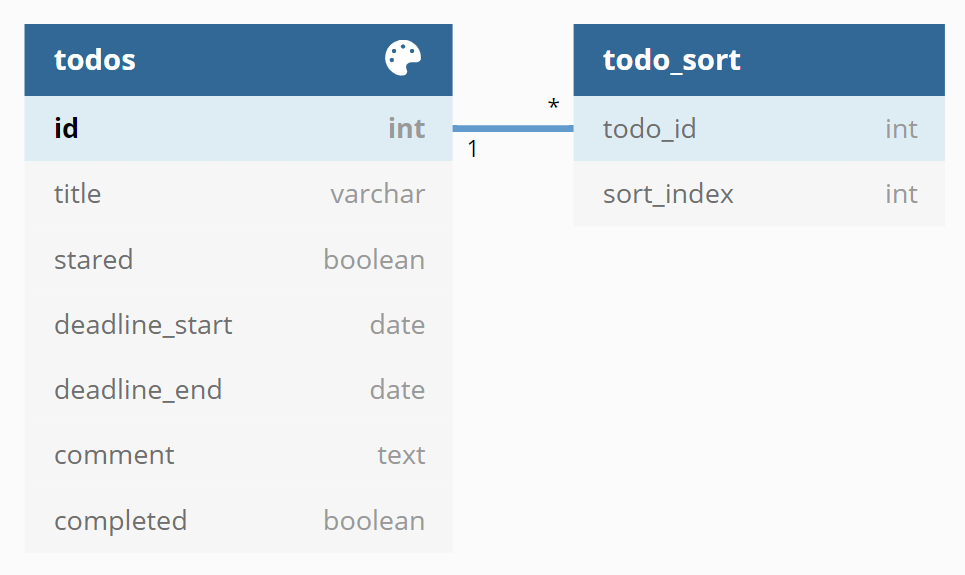
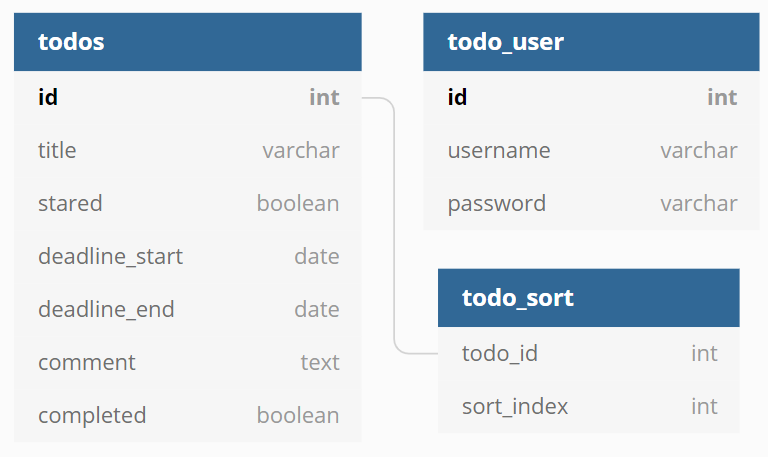
Add JWT authentication

diff --git a/middleware/JWT.go b/middleware/JWT.go
@@ -1,0 +1,34 @@
+package middleware
+
+import (
+	"time"
+
+	jwt "github.com/appleboy/gin-jwt/v2"
+	"github.com/gin-gonic/gin"
+	"github.com/zondaTW/go-todolist-server/lib"
+)
+
+func GetJWTMiddleware(key string, gwtAuthFunc lib.AuthFunc) *jwt.GinJWTMiddleware {
+	authMiddleware, err := jwt.New(
+		&jwt.GinJWTMiddleware{
+			Realm:         "Login Required",
+			Key:           []byte(key),
+			Timeout:       time.Hour * 12,
+			MaxRefresh:    time.Hour * 24,
+			Authenticator: gwtAuthFunc,
+			Unauthorized:  jwtUnAuthFunc,
+		})
+
+	if err != nil {
+		panic(err)
+	}
+
+	return authMiddleware
+}
+
+func jwtUnAuthFunc(c *gin.Context, code int, message string) {
+	c.JSON(code, gin.H{
+		"code":    code,
+		"message": message,
+	})
+}

diff --git a/user/service.go b/user/service.go
@@ -1,0 +1,30 @@
+package user
+
+import (
+	"database/sql"
+
+	jwt "github.com/appleboy/gin-jwt"
+	"github.com/gin-gonic/gin"
+
+	"github.com/zondaTW/go-todolist-server/lib"
+)
+
+type Login struct {
+	Username string `form:"username" json:"username" binding:"required"`
+	Password string `form:"password" json:"password" binding:"required"`
+}
+
+func GetJWTAuthFunc(db *sql.DB) lib.AuthFunc {
+	return func(c *gin.Context) (interface{}, error) {
+		var login Login
+		if err := c.ShouldBind(&login); err != nil {
+			return "", jwt.ErrMissingLoginValues
+		}
+
+		if _, err := getUser(db, login.Username, login.Password); err == nil {
+			return nil, nil
+		}
+
+		return nil, jwt.ErrFailedAuthentication
+	}
+}

diff --git a/user/model.go b/user/model.go
@@ -1,0 +1,27 @@
+package user
+
+import "database/sql"
+
+type User struct {
+	ID       int    `json:"id" form:"id"`
+	Username string `json:"username" form:"username"`
+	Password string `json:"password" form:"password"`
+}
+
+func getUser(db *sql.DB, username string, password string) (User, error) {
+	var user User
+	sqlStatement := `SELECT id, username, password from todo_user WHERE username = $1 AND password = $2`
+	err := db.QueryRow(
+		sqlStatement, username, password,
+	).Scan(
+		&user.ID, &user.Username, &user.Password,
+	)
+	if err != nil {
+		return User{
+			ID:       0,
+			Username: "",
+			Password: "",
+		}, err
+	}
+	return user, nil
+}

diff --git a/route.go b/route.go
@@ -3,10 +3,20 @@ package main
 import (
 	"github.com/zondaTW/go-todolist-server/middleware"
 	"github.com/zondaTW/go-todolist-server/todos"
+	"github.com/zondaTW/go-todolist-server/user"
 )
 
-func initRoute() {
+func initRoute(authKey string) {
 	router.Use(middleware.CORSMiddleware)
+
+	jwtMiddleware := middleware.GetJWTMiddleware(authKey, user.GetJWTAuthFunc(db))
+	router.POST("/login", jwtMiddleware.LoginHandler)
+
+	auth := router.Group("/auth")
+	auth.Use(jwtMiddleware.MiddlewareFunc())
+	auth.GET("/refresh_token", jwtMiddleware.RefreshHandler)
+
 	api := router.Group("/api")
+	api.Use(jwtMiddleware.MiddlewareFunc())
 	todos.Route(api, db)
 }

diff --git a/main.go b/main.go
@@ -30,6 +30,7 @@ func main() {
 	var (
 		ip         = config.Section("System").Key("ip").String()
 		port       = config.Section("System").Key("port").String()
+		authKey    = config.Section("System").Key("auth_key").String()
 		dbHost     = config.Section("Database").Key("host").String()
 		dbPort     = config.Section("Database").Key("port").Value()
 		dbUser     = config.Section("Database").Key("user").String()
@@ -50,5 +51,6 @@ func main() {
 
 	urlSetting := fmt.Sprintf("%s:%s", ip, port)
 	router = gin.Default()
+	initRoute(authKey)
 	router.Run(urlSetting)
 }

diff --git a/lib/type.go b/lib/type.go
@@ -4,7 +4,11 @@ import (
 	"database/sql/driver"
 	"fmt"
 	"time"
+
+	"github.com/gin-gonic/gin"
 )
+
+type AuthFunc func(*gin.Context) (interface{}, error)
 
 type Date time.Time
 

diff --git a/README.md b/README.md
@@ -29,4 +29,10 @@ CREATE TABLE todo_sort(
     todo_id int UNIQUE NOT NULL REFERENCES todos(id) ON DELETE CASCADE,
     sort_index int UNIQUE NOT NULL
 );
+
+CREATE TABLE todo_user(
+    id serial PRIMARY KEY,
+    username VARCHAR (80) NOT NULL,
+    password VARCHAR (80) NOT NULL
+);
 ```
